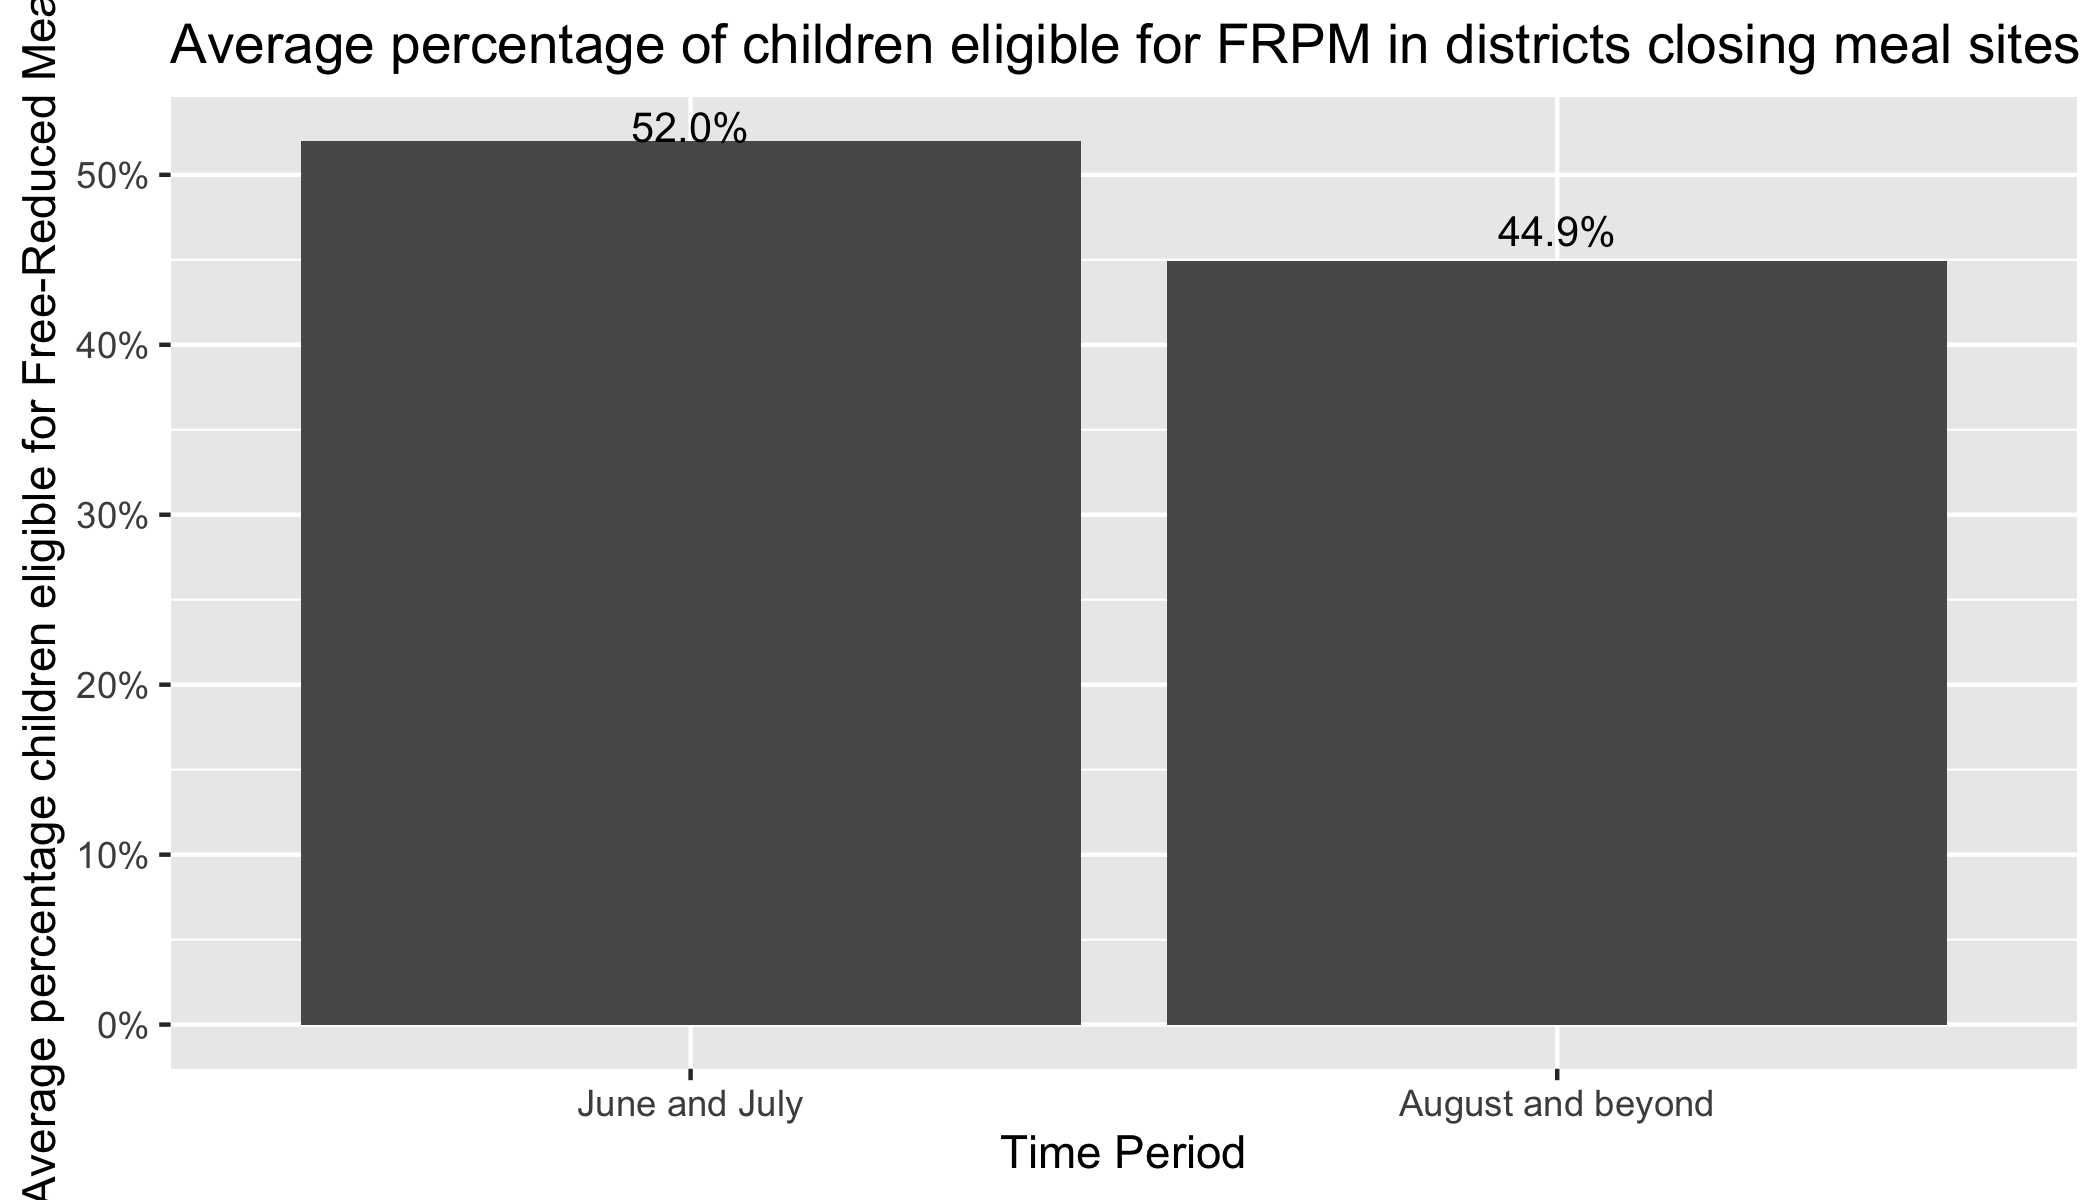
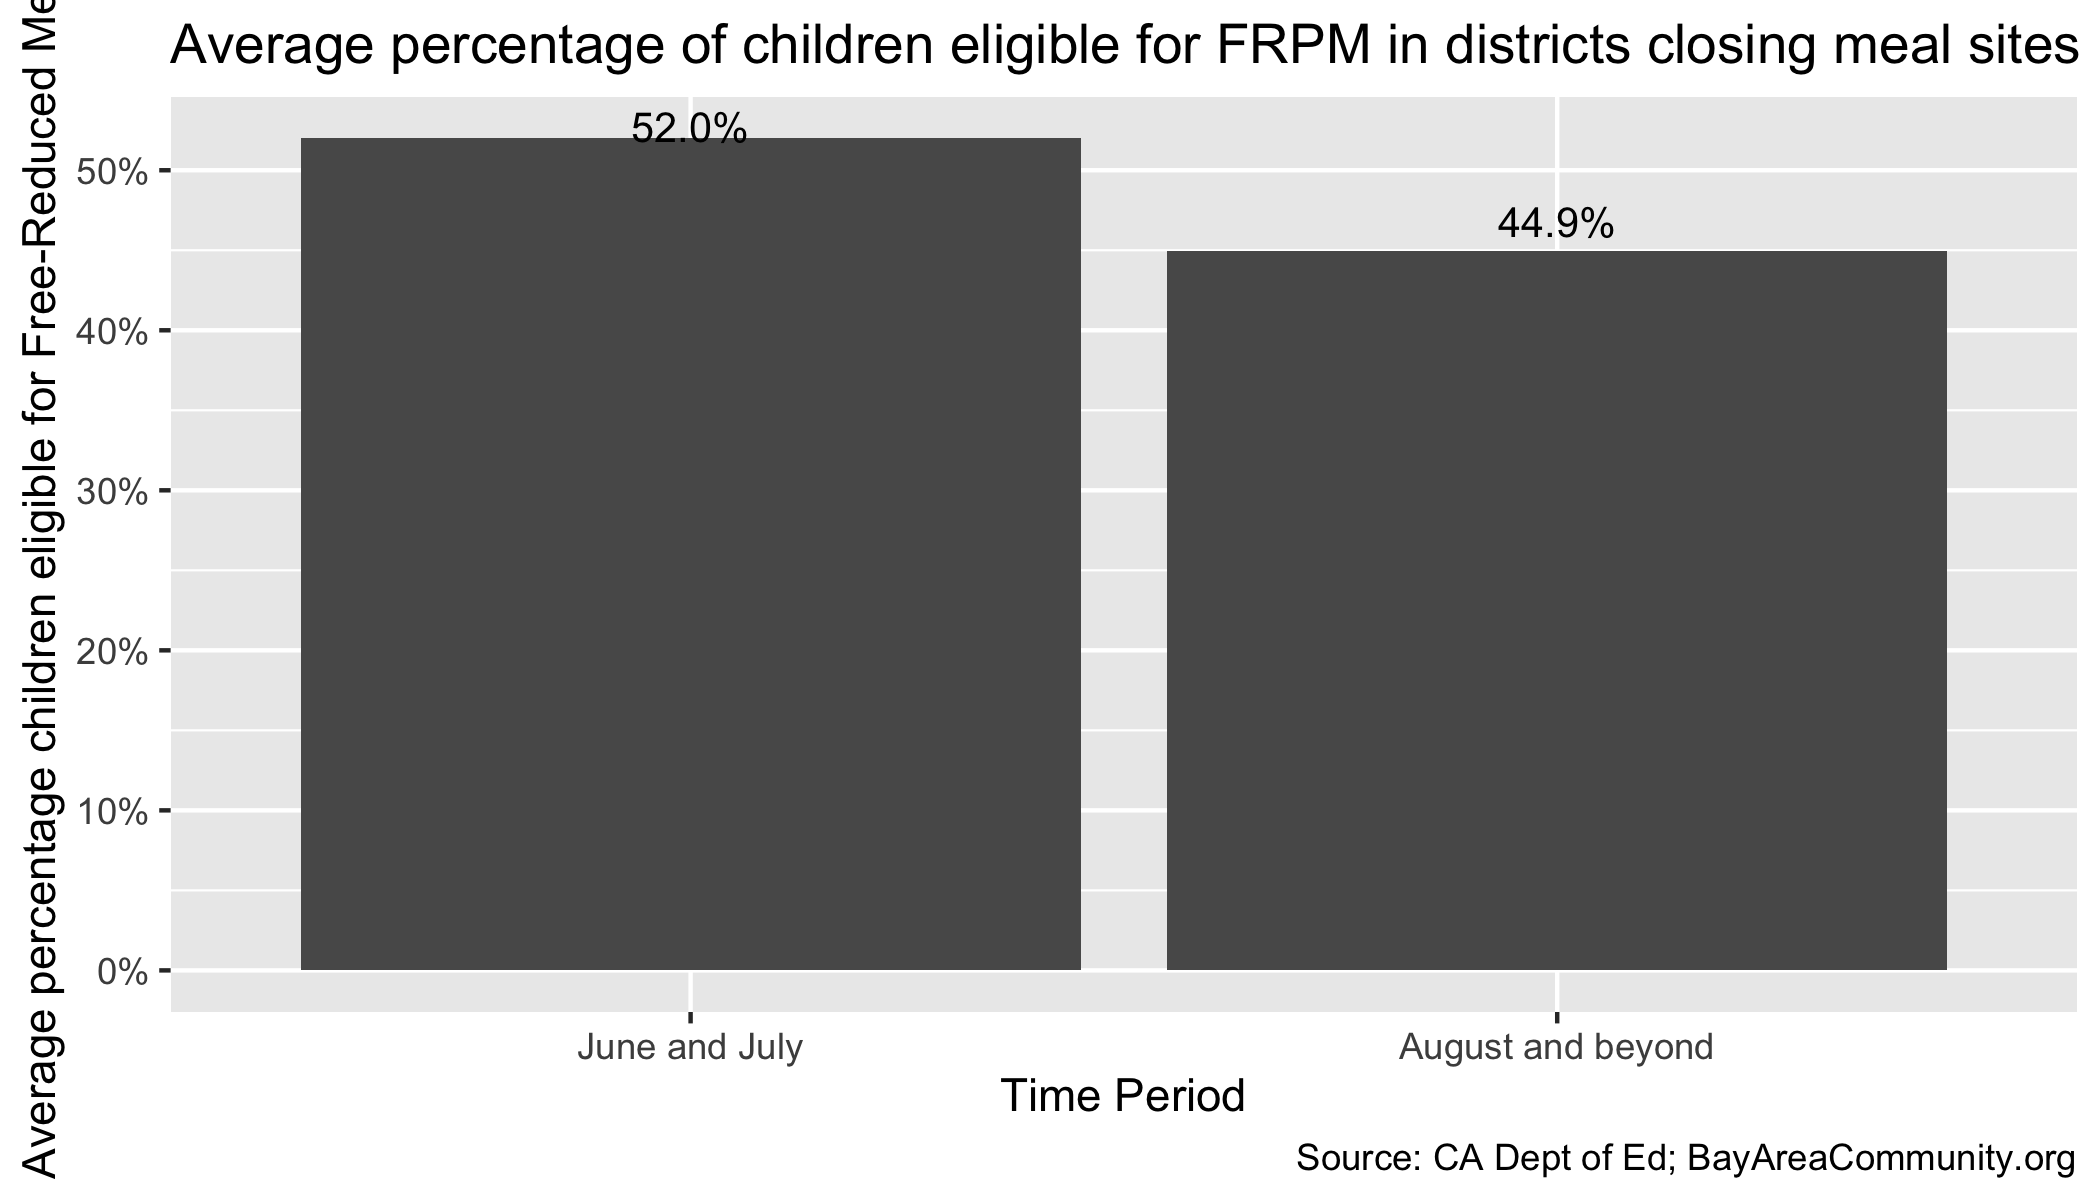
Updated images and MD with sources

diff --git a/Data_analysis/School_meal_Pandemic_EBT.md b/Data_analysis/School_meal_Pandemic_EBT.md
@@ -73,8 +73,6 @@ school_meals <-
   )
 ```
 
-    ## Auto-refreshing stale OAuth token.
-
     ## Reading from "Bay Area School Meal Sites"
 
     ## Range "2:5000000"
@@ -641,7 +639,8 @@ school_meals_average %>%
   labs(
     title = "Average percentage of children eligible for FRPM in districts closing meal sites",
     y = "Average percentage children eligible for Free-Reduced Meals",
-    x = "Months"
+    x = "Months",
+    caption = "Source: CA Dept of Ed; BayAreaCommunity.org"
   )
 ```
 
@@ -665,7 +664,8 @@ school_meals_average %>%
   labs(
     title = "Number of children eligible for FRPM in districts closing meal sites",
     y = "Total children eligible for Free-Reduced Meals",
-    x = "Months"
+    x = "Months",
+    caption = "Source: CA Dept of Ed; BayAreaCommunity.org"
   )
 ```
 
@@ -708,7 +708,8 @@ school_meals_average %>%
   labs(
     title = "Average percentage of children eligible for FRPM in districts closing meal sites",
     y = "Average percentage children eligible for Free-Reduced Meals",
-    x = "Time Period"
+    x = "Time Period",
+    caption = "Source: CA Dept of Ed; BayAreaCommunity.org"
   )
 ```
 
